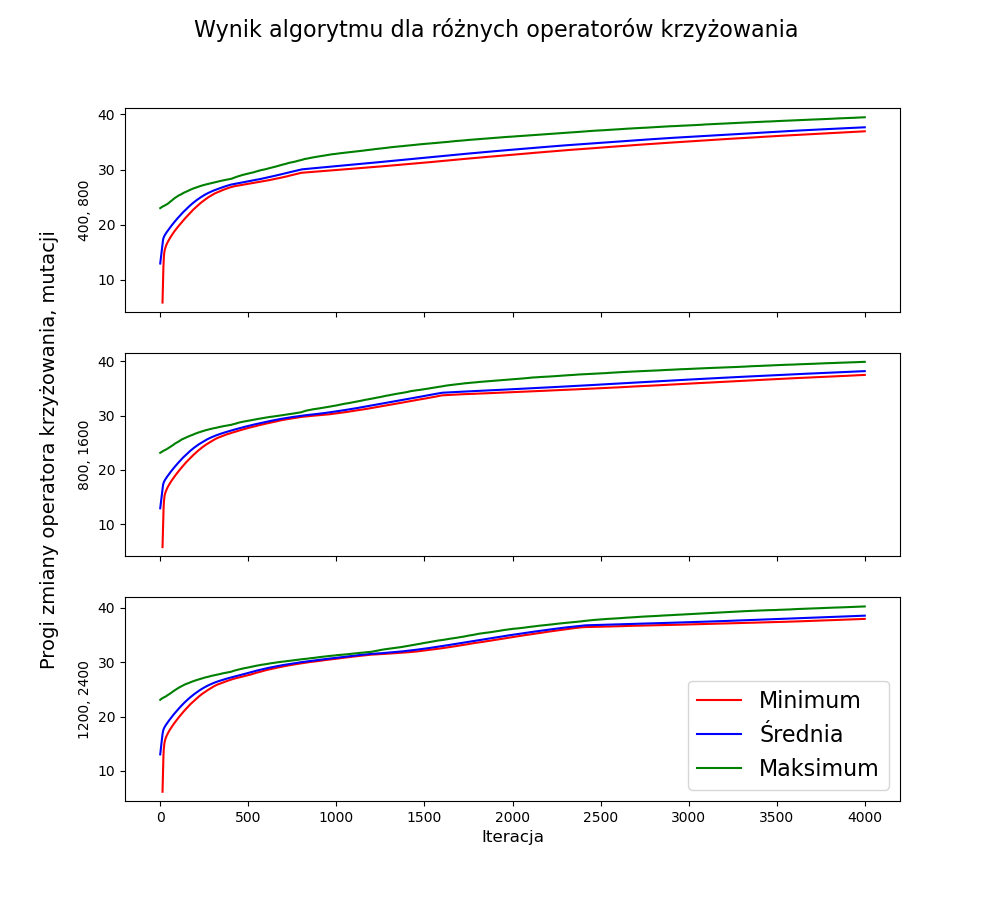
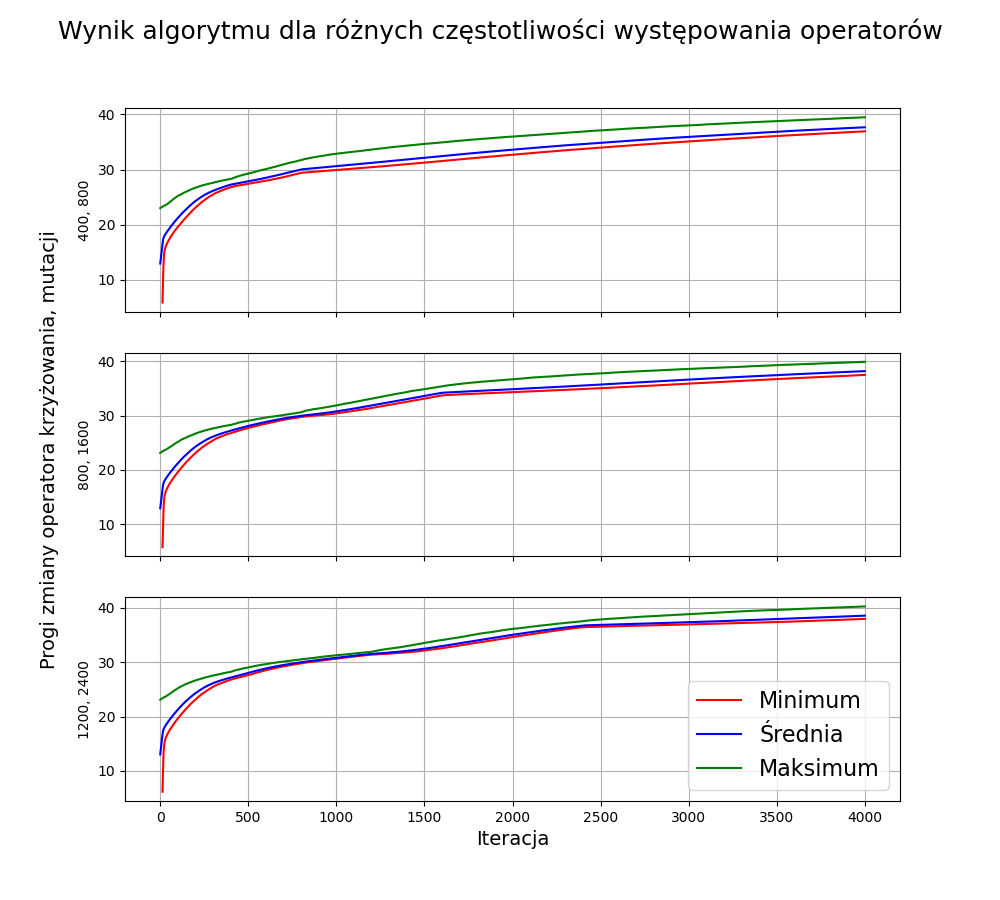
hell lot of visuals

Changed region(s): [[0.062, 0.0, 0.93, 0.0622], [0.465, 0.9022, 0.558, 0.9644]]

diff --git a/data_analysis.py b/data_analysis.py
@@ -123,7 +123,30 @@ def third_test():
 
     return fig1
 
-# a = third_test()
+
+# does not work
+def third_test_vel2():
+    df25 = pd.read_excel("Dat/RawData_popsize25.xlsx", index_col=0)
+    df50 = pd.read_excel("Dat/RawData_popsize50.xlsx", index_col=0)
+    df75 = pd.read_excel("Dat/RawData_popsize75.xlsx", index_col=0)
+    df100 = pd.read_excel("Dat/RawData_popsize100.xlsx", index_col=0)
+
+    fig, axs = plt.subplots(4, 1, figsize=(10, 6), sharey='row')
+    fig.suptitle("Zachowanie się granicznych i średniego rozwiązania", fontsize=16)
+
+    axs[0].plot(df25["Minimum Fun"], color="red", label="Minimum")
+    axs[0].plot(df25["Average Fun"], color="blue", label="Średnia")
+    axs[0].plot(df25["Maximum Fun"], color='green', label="Maksimum")
+    axs[0].set_ylabel("Funkcja celu [PLN/h]", fontsize=12)
+    axs[0].set_xlabel("Iteracja", fontsize=12)
+    axs[1].plot(df50["Minimum Fun"], color="red", label="Minimum")
+    axs[1].plot(df50["Average Fun"], color="blue", label="Średnia")
+    axs[1].plot(df50["Maximum Fun"], color='green', label="Maksimum")
+    axs[1].set_xlabel("Iteracja", fontsize=12)
+    plt.legend(fontsize=16)
+    plt.savefig("Plots & Charts/max average min.png")
+    plt.show()
+    return fig
 
 
 # Probability of crossover and mutation
@@ -133,22 +156,25 @@ def fourth_test():
     data3060 = pd.read_excel("Dat/RawData_prob3060.xlsx", index_col=0)
 
     fig, axs = plt.subplots(3, 1, figsize=(10, 9), sharex='col')
-    fig.suptitle("Wynik algorytmu dla różnych operatorów krzyżowania ", fontsize=16)
+    fig.suptitle("Wynik algorytmu dla różnych częstotliwości występowania operatorów", fontsize=18)
     fig.text(0.04, 0.5, 'Progi zmiany operatora krzyżowania, mutacji', va='center', rotation='vertical', fontsize=14)
 
     axs[0].plot(data1020.iloc[13:]["Minimum Fun"], color="red", label="Minimum")
     axs[0].plot(data1020["Average Fun"], color="blue", label="Średnia")
     axs[0].plot(data1020["Maximum Fun"], color='green', label="Maksimum")
     axs[0].set_ylabel("400, 800")
+    axs[0].grid()
     axs[1].plot(data2040.iloc[13:]["Minimum Fun"], color="red", label="Minimum")
     axs[1].plot(data2040["Average Fun"], color="blue", label="Średnia")
     axs[1].plot(data2040["Maximum Fun"], color='green', label="Maksimum")
     axs[1].set_ylabel("800, 1600")
+    axs[1].grid()
     axs[2].plot(data3060.iloc[13:]["Minimum Fun"], color="red", label="Minimum")
     axs[2].plot(data3060["Average Fun"], color="blue", label="Średnia")
     axs[2].plot(data3060["Maximum Fun"], color='green', label="Maksimum")
     axs[2].set_ylabel("1200, 2400")
-    axs[2].set_xlabel("Iteracja", fontsize=12)
+    axs[2].set_xlabel("Iteracja", fontsize=14)
+    axs[2].grid()
     plt.legend(fontsize=16)
 
     plt.savefig("Plots & Charts/prawdopodobieństwa.png")
@@ -189,3 +215,6 @@ def controversial_test():
     plt.savefig("Plots & Charts/yahoooy.png")
     plt.show()
     return fig
+
+
+a = fourth_test()
